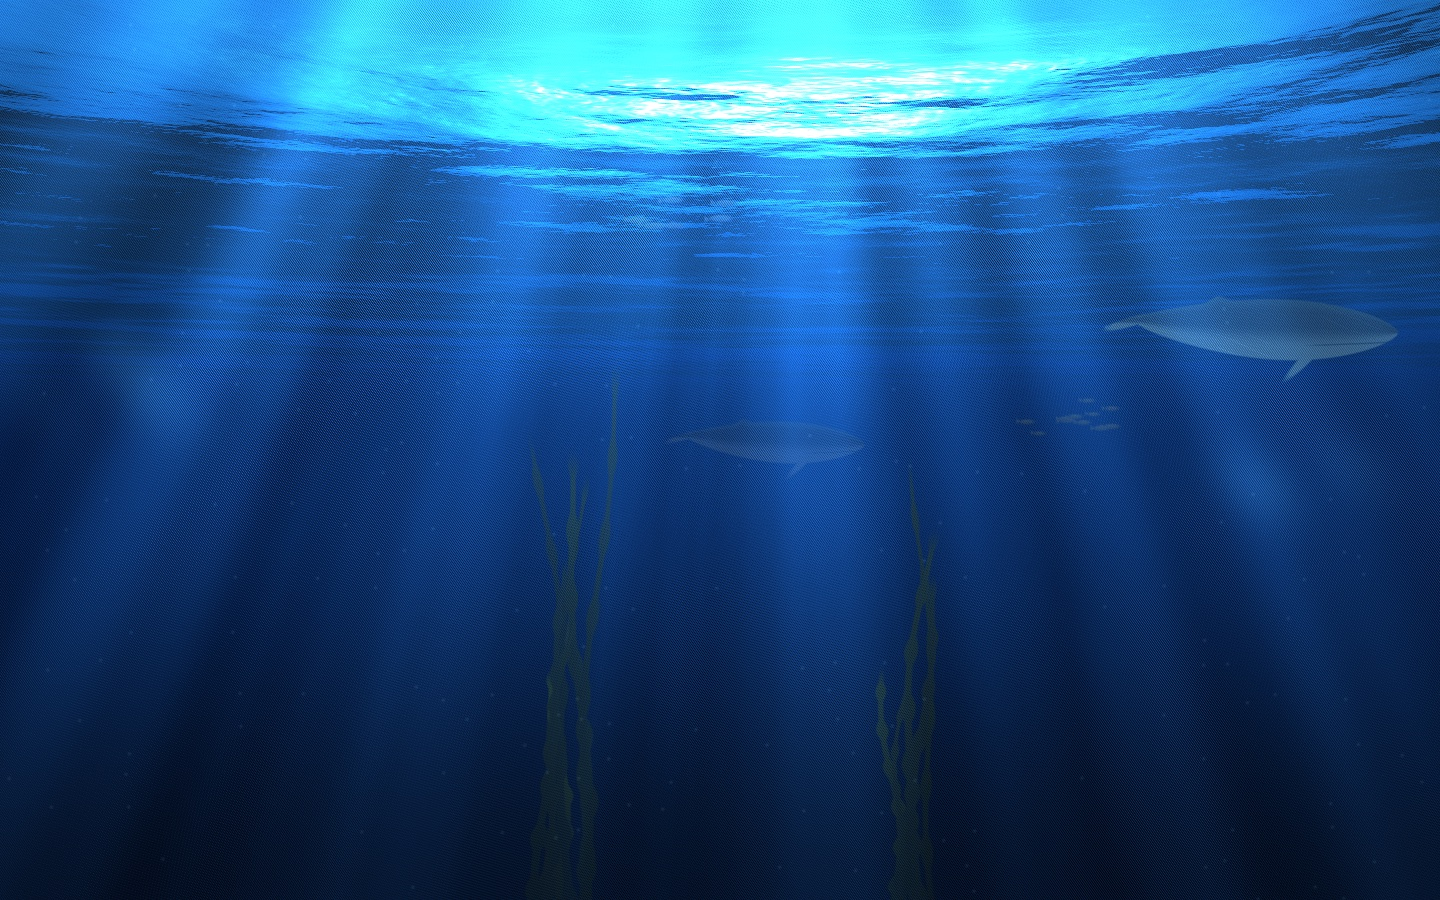
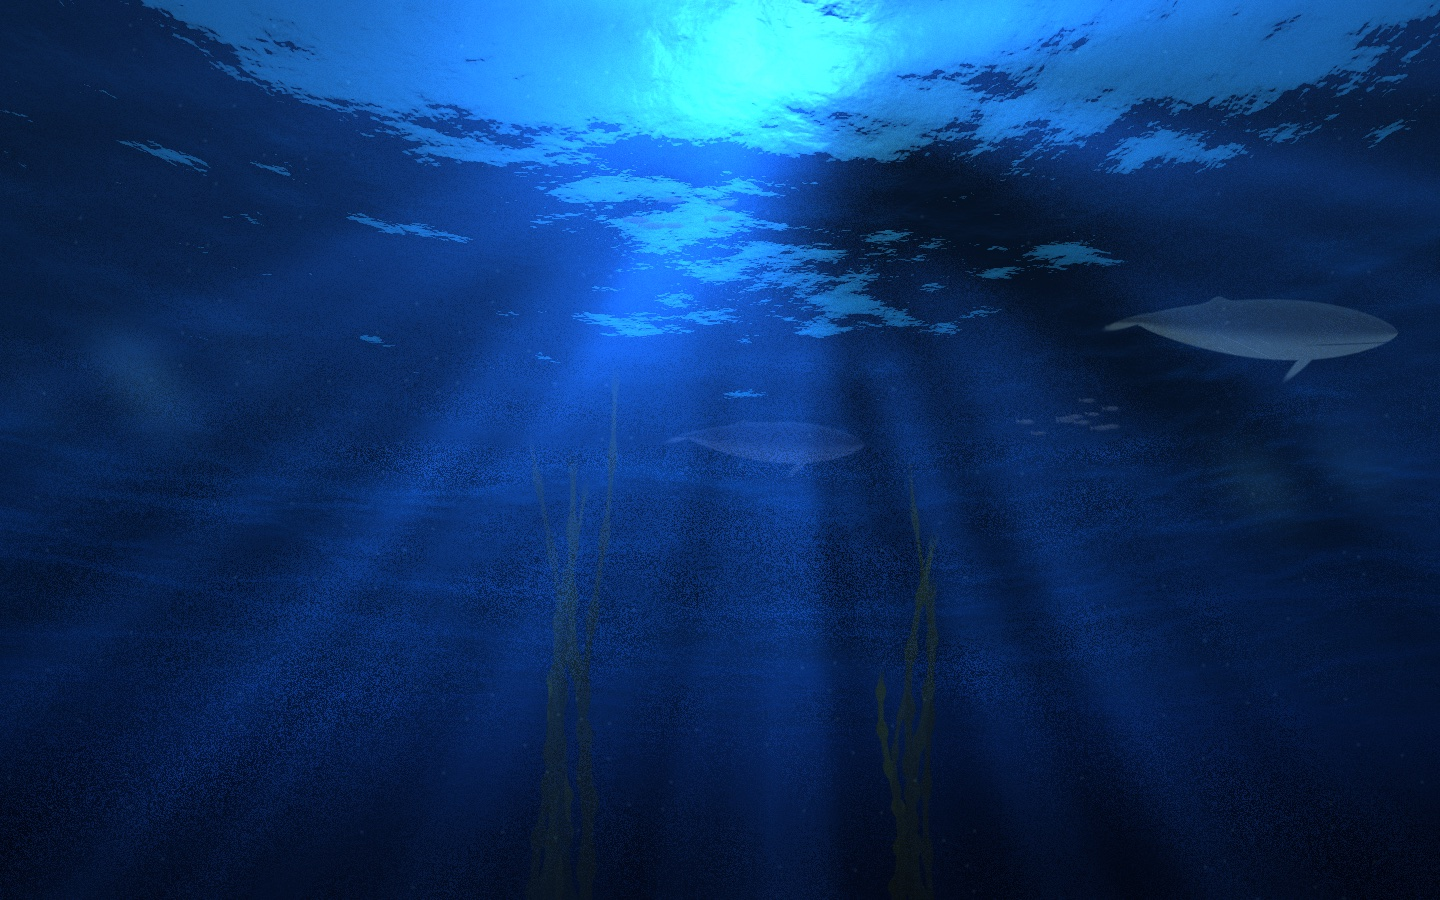
feat(scene): the real wave shape through a real camera, seen from below
- The line of sight is intersected with the displaced FFT surface, so the
  waves have shape and parallax instead of being a pattern on a flat sheet
- A real perspective camera on the seabed, tilted 25 degrees up; no more
  stretched viewing angle or exaggerated slopes
- Physical shading: sky and sun through Snell's window, total internal
  reflection outside it, absorption with distance, tone mapping
- ScenePreview --view above shows the same sea from above, to compare the
  waves with footage of a real sea
- Light shafts turned down so the surface stays readable

Part of #7

diff --git a/macos/EchomereScene/Sources/CoveSceneRenderer/SceneShaders.swift b/macos/EchomereScene/Sources/CoveSceneRenderer/SceneShaders.swift
@@ -53,24 +53,20 @@ enum SceneShaders {
 
     // MARK: Camera and sea
 
-    // The camera stands on the seabed, about 12 m down, and looks slightly up, like a webcam on the ground:
-    // the underside of the surface fills the picture above the horizon at 55 % of the screen height.
+    // The camera stands on the seabed, about 12 m down, and is tilted 25 degrees up, like a webcam on the
+    // ground. It is a real perspective camera (60 degree vertical field of view): the horizon lies near the
+    // bottom edge, and Snell's window, where the sky shows through, fills the top of the picture.
     constant float CAMERA_DEPTH = 12.0;
-    constant float FOCAL = 1.0;
-    constant float PITCH = -0.0500;            // -atan(0.05): puts the horizon at 55 % of the height
-    constant float HORIZON = 0.55;
+    constant float FOCAL = 0.866;
+    constant float PITCH = 0.436;
+    constant float HORIZON = 0.096;            // 0.5 - FOCAL * tan(PITCH)
     // Sea.cascadeSizes: long swell, wind sea, ripples.
     constant float CASCADE_SIZES[3] = { 211.3, 39.7, 7.43 };
     constant float WATER_IOR = 1.333;
-    // Seen this flat, every ray would be totally reflected. The surface is drawn as if the camera looked
-    // up more steeply, so the sunlit Snell's window shows at the top of the picture.
-    constant float ELEVATION_STRETCH = 3.0;
-    // Snell's window magnifies the waves seen from below; the slopes are gently exaggerated for the shading
-    // of the surface only (not for the light focusing).
-    constant float SLOPE_GAIN = 1.4;
+    constant float MAX_WAVE = 3.0;             // no wave rises or dips further than this, in metres
 
-    // The sun stands about 38 degrees high, ahead of the camera, so its light comes through the top of the picture.
-    constant float3 SUN_IN_AIR = float3(0.05, 0.61, 0.79);
+    // The sun stands 35 degrees high, ahead of the camera.
+    constant float3 SUN_IN_AIR = float3(0.10, 0.574, 0.813);
 
     struct SeaTextures {
         texture2d_array<float> displacement;   // per cascade: (Dx, height, Dz, dDx/dz)
@@ -87,6 +83,14 @@ enum SceneShaders {
         return normalize(float3(u, v * cp + FOCAL * sp, FOCAL * cp - v * sp));
     }
 
+    // The same sea seen from 4 m above, looking towards the sun: for checking the waves.
+    float3 viewRayAbove(float2 uv, float aspect) {
+        float u = (uv.x - 0.5) * aspect;
+        float v = uv.y - 0.5;
+        float cp = cos(-0.14), sp = sin(-0.14);
+        return normalize(float3(u, v * cp + FOCAL * sp, FOCAL * cp - v * sp));
+    }
+
     // Direction towards the sun under water (the sunlight bends towards the vertical as it enters).
     float3 sunInWater() {
         float3 down = refract(-normalize(SUN_IN_AIR), float3(0, 1, 0), 1.0 / WATER_IOR);
@@ -97,9 +101,9 @@ enum SceneShaders {
     float3 water(float y) {
         float3 deep = float3(0.002, 0.015, 0.055);
         float3 middle = float3(0.010, 0.075, 0.210);
-        float3 high = float3(0.080, 0.330, 0.640);
-        float3 c = mix(deep, middle, smoothstep(0.0, HORIZON - 0.05, y));
-        return mix(c, high, smoothstep(HORIZON - 0.05, 1.0, y));
+        float3 high = float3(0.030, 0.170, 0.400);
+        float3 c = mix(deep, middle, smoothstep(0.0, 0.30, y));
+        return mix(c, high, smoothstep(0.30, 1.0, y));
     }
 
     // How strongly the waves focus sunlight at `depth` metres below surface point `q`: the inverse of how
@@ -144,42 +148,109 @@ enum SceneShaders {
         return focusAt(sea, q, depth, broad);
     }
 
-    // The underside of the surface. Inside Snell's window the sky and the sun shine through the waves;
-    // outside it the surface is a mirror for the deep water below. Every wave changes where that boundary
-    // falls, so light patches form, travel and break up with the waves.
-    float3 surfaceUnderside(SeaTextures sea, float3 ray, float y) {
-        float3 deep = water(y);
-        if (ray.y <= 0.0) return deep;
-        float2 across = normalize(ray.xz);
-        float elevation = min(asin(ray.y) * ELEVATION_STRETCH, 1.45);
-        float3 incoming = float3(across.x * cos(elevation), sin(elevation), across.y * cos(elevation));
-        float distance = CAMERA_DEPTH / sin(elevation);
-        float2 q = incoming.xz * distance;
-        float2 slope = slopeAt(sea, q, distance) * SLOPE_GAIN;
-        float3 normal = normalize(float3(-slope.x, 1.0, -slope.y));
+    // Height of the long waves at the point x (metres). The choppy crests are waves pushed sideways, so the
+    // sideways push is undone first to find which part of the wave lies above x.
+    float heightAt(SeaTextures sea, float2 x) {
+        float4 d = sea.displacement.sample(seaSampler, x / CASCADE_SIZES[0], 0, level(0.0));
+        return sea.displacement.sample(seaSampler, (x - d.xz) / CASCADE_SIZES[0], 0, level(0.0)).y;
+    }
 
-        // Outside Snell's window the surface mirrors the water below: facets tilted to see the lighter water
-        // just under the surface look brighter than facets that see the dark depth.
-        float3 mirrored = reflect(incoming, -normal);
-        float3 reflected = mix(float3(0.006, 0.045, 0.130), float3(0.040, 0.190, 0.380),
-                               pow(1.0 - saturate(-mirrored.y * 1.6), 2.0));
-        float3 through = refract(incoming, -normal, WATER_IOR);
+    // Where a line of sight meets the waves: the distance along the ray, or a negative value if it never
+    // does. Works from below and from above. The ray is walked through the layer the waves occupy until it
+    // crosses the surface, then the crossing is refined.
+    float surfaceHit(SeaTextures sea, float3 origin, float3 ray) {
+        if (abs(ray.y) < 1e-4) return -1.0;
+        float side = sign(ray.y);
+        float start = max((-MAX_WAVE * side - origin.y) / ray.y, 0.0);
+        float end = min((MAX_WAVE * side - origin.y) / ray.y, 600.0);
+        if (end <= start) return -1.0;
+        const int STEPS = 10;
+        float dt = (end - start) / float(STEPS);
+        float before = start;
+        float gapBefore = side * (origin.y + start * ray.y - heightAt(sea, origin.xz + ray.xz * start));
+        for (int i = 1; i <= STEPS; i++) {
+            float t = start + dt * float(i);
+            float gap = side * (origin.y + t * ray.y - heightAt(sea, origin.xz + ray.xz * t));
+            if (gap > 0.0) {
+                for (int k = 0; k < 2; k++) {               // refine between the last two steps
+                    float middle = before + (t - before) * (-gapBefore / (gap - gapBefore));
+                    float gapMiddle = side * (origin.y + middle * ray.y
+                                              - heightAt(sea, origin.xz + ray.xz * middle));
+                    if (gapMiddle > 0.0) { t = middle; gap = gapMiddle; }
+                    else { before = middle; gapBefore = gapMiddle; }
+                }
+                return before + (t - before) * (-gapBefore / (gap - gapBefore));
+            }
+            before = t;
+            gapBefore = gap;
+        }
+        return end;
+    }
+
+    // The upward normal of the surface above the point x, from all three wave scales.
+    float3 normalAt(SeaTextures sea, float2 x, float distance) {
+        float2 push = sea.displacement.sample(seaSampler, x / CASCADE_SIZES[0], 0, level(0.0)).xz
+                    + sea.displacement.sample(seaSampler, x / CASCADE_SIZES[1], 1, level(0.0)).xz;
+        float2 slope = slopeAt(sea, x - push, distance);
+        return normalize(float3(-slope.x, 1.0, -slope.y));
+    }
+
+    // The sky and the sun, as seen in direction `direction` above the water.
+    float3 sky(float3 direction) {
+        float sunAngle = saturate(dot(direction, normalize(SUN_IN_AIR)));
+        float3 c = mix(float3(0.55, 0.72, 0.95), float3(0.18, 0.38, 0.80), saturate(direction.y));
+        c += float3(1.0, 0.95, 0.85) * (pow(sunAngle, 3000.0) * 60.0 + pow(sunAngle, 200.0) * 3.0
+                                        + pow(sunAngle, 12.0) * 0.5);
+        return c;
+    }
+
+    float3 toneMap(float3 c) { return 1.0 - exp(-c * 0.8); }
+
+    // The underside of the surface, drawn where the line of sight really meets the waves. Inside Snell's
+    // window the sky and the sun shine through; outside it the surface is a mirror for the water below. Every
+    // wave tilts the surface, so the edge of the window, the sun's glitter and the mirrored water all move with
+    // the waves.
+    float3 surfaceUnderside(SeaTextures sea, float3 ray, float y) {
+        float3 body = water(y);
+        if (ray.y <= 0.0) return body;
+        float3 origin = float3(0.0, -CAMERA_DEPTH, 0.0);
+        float t = surfaceHit(sea, origin, ray);
+        if (t < 0.0) return body;
+        float3 hit = origin + ray * t;
+        float3 normal = normalAt(sea, hit.xz, t);
+
+        // The mirror shows the water below: lighter near the surface, dark blue straight down.
+        float3 mirrored = reflect(ray, -normal);
+        float3 reflected = mix(float3(0.004, 0.035, 0.110), float3(0.030, 0.160, 0.340),
+                               pow(1.0 - saturate(-mirrored.y), 3.0));
+        float3 through = refract(ray, -normal, WATER_IOR);
         float3 c;
         if (dot(through, through) < 1e-5) {
             c = reflected;                                  // total internal reflection
         } else {
-            float cosine = saturate(dot(incoming, normal));
             float fresnel = 0.02 + 0.98 * pow(1.0 - saturate(dot(through, normal)), 5.0);
-            float sunAngle = saturate(dot(through, normalize(SUN_IN_AIR)));
-            float3 sky = mix(float3(0.10, 0.30, 0.58), float3(0.30, 0.55, 0.85), saturate(through.y));
-            float3 sun = float3(1.0, 0.97, 0.90) * (pow(sunAngle, 250.0) * 6.0 + pow(sunAngle, 25.0) * 0.8);
-            c = mix(sky + sun, reflected, saturate(fresnel + (1.0 - cosine) * 0.15));
+            c = mix(sky(through), reflected, fresnel);
         }
+        c = toneMap(c);
         // Light reaching the camera through the water turns blue and fades with distance.
-        float3 absorption = exp(-distance * float3(0.11, 0.028, 0.015));
-        c = c * absorption + deep * (1.0 - absorption);
-        float haze = smoothstep(0.0, 0.025, ray.y);
-        return mix(deep, c, haze);
+        float3 clear = exp(-t * float3(0.090, 0.022, 0.012));
+        return c * clear + body * (1.0 - clear);
+    }
+
+    // The sea from above, for checking the waves against footage of a real sea.
+    float3 seaFromAbove(SeaTextures sea, float3 ray) {
+        float3 origin = float3(0.0, 4.0, 0.0);
+        float3 horizon = toneMap(sky(normalize(float3(ray.x, max(ray.y, 0.0) + 0.02, ray.z))));
+        if (ray.y >= 0.0) return horizon;
+        float t = surfaceHit(sea, origin, ray);
+        if (t < 0.0) return horizon;
+        float3 hit = origin + ray * t;
+        float3 normal = normalAt(sea, hit.xz, t);
+        float3 mirrored = reflect(ray, normal);
+        mirrored.y = abs(mirrored.y);
+        float fresnel = 0.02 + 0.98 * pow(1.0 - saturate(dot(-ray, normal)), 5.0);
+        float3 c = toneMap(mix(float3(0.010, 0.060, 0.090), sky(mirrored), fresnel));
+        return mix(horizon, c, exp(-t / 900.0));
     }
 
     // Light shafts: sunlight scattered towards the camera along its line of sight. At every step the light is
@@ -195,8 +266,7 @@ enum SceneShaders {
         float range = ray.y > 0.0 ? min(32.0, (CAMERA_DEPTH - 0.3) / ray.y) : 32.0;
         float dt = range / float(STEPS);
         // A fixed per-pixel offset hides the steps without flickering from frame to frame.
-        float2 cell = floor(pixel);
-        float offset = fract(52.9829189 * fract(0.06711056 * cell.x + 0.00583715 * cell.y));
+        float offset = hash21(floor(pixel));
         float light = 0.0;
         for (int i = 0; i < STEPS; i++) {
             float t = (float(i) + offset) * dt;
@@ -206,7 +276,7 @@ enum SceneShaders {
             float focus = causticAt(sea, point.xz, depth, true);
             light += ((focus - 1.0) * 2.4 + 0.10) * exp(-depth * 0.07) * exp(-t * 0.05) * dt;
         }
-        return float3(0.035, 0.120, 0.220) * 0.45 * max(light, 0.0) * phase;
+        return float3(0.020, 0.085, 0.200) * 0.20 * max(light, 0.0) * min(phase, 6.0);
     }
 
     float3 fogged(float3 c, float depth, float y) {
@@ -330,6 +400,9 @@ enum SceneShaders {
         float2 p = float2(0.8 + (in.uv.x - 0.5) * aspect, in.uv.y);
 
         float3 ray = viewRay(in.uv, aspect);
+        if (d[1].z > 0.5) {
+            return float4(seaFromAbove(sea, viewRayAbove(in.uv, aspect)), 1.0);
+        }
         float3 col = surfaceUnderside(sea, ray, p.y);
 
 

diff --git a/macos/EchomereScene/Sources/CoveSceneRenderer/SceneBuffer.swift b/macos/EchomereScene/Sources/CoveSceneRenderer/SceneBuffer.swift
@@ -17,7 +17,8 @@ public enum SceneBuffer {
     /// - Parameters:
     ///   - aspect: width / height of the target.
     ///   - pixelsHigh: height of the target in pixels, for anti-aliasing.
-    public static func pack(_ frame: SceneFrame, aspect: Double, pixelsHigh: Double) -> [SIMD4<Float>] {
+    public static func pack(_ frame: SceneFrame, aspect: Double, pixelsHigh: Double,
+                            seaFromAbove: Bool = false) -> [SIMD4<Float>] {
         var data = [SIMD4<Float>](repeating: .zero, count: count)
         let creatures = Array(frame.creatures.prefix(maxCreatures))
         let kelp = Array(frame.kelp.prefix(maxKelp))
@@ -26,7 +27,7 @@ public enum SceneBuffer {
         // Shader time runs over one day; Float keeps enough precision for slow motion at that range.
         let shaderTime = frame.time.timeIntervalSince1970.truncatingRemainder(dividingBy: 86_400)
         data[0] = SIMD4(Float(aspect), Float(shaderTime), Float(creatures.count), Float(kelp.count))
-        data[1] = SIMD4(Float(echoes.count), Float(1 / pixelsHigh), 0, 0)
+        data[1] = SIMD4(Float(echoes.count), Float(1 / pixelsHigh), seaFromAbove ? 1 : 0, 0)
 
         for (i, layer) in frame.terrain.prefix(3).enumerated() {
             let b = terrainStart + i * 4

diff --git a/macos/EchomereScene/Sources/CoveSceneRenderer/CoveSceneRenderer.swift b/macos/EchomereScene/Sources/CoveSceneRenderer/CoveSceneRenderer.swift
@@ -22,6 +22,8 @@ public final class CoveSceneRenderer {
     let queue: MTLCommandQueue
     private let pipeline: MTLRenderPipelineState
     let ocean: Ocean
+    /// Draws the sea from above instead of the scene, for checking the waves against footage of a real sea.
+    public var showsSeaFromAbove = false
 
     public init(device: MTLDevice, pixelFormat: MTLPixelFormat = .bgra8Unorm) throws {
         self.device = device
@@ -88,7 +90,8 @@ public final class CoveSceneRenderer {
         ocean.simulate(seaTime: frame.seaTime, commandBuffer: commandBuffer)
 
         let data = SceneBuffer.pack(
-            frame, aspect: Double(texture.width) / Double(texture.height), pixelsHigh: Double(texture.height))
+            frame, aspect: Double(texture.width) / Double(texture.height), pixelsHigh: Double(texture.height),
+            seaFromAbove: showsSeaFromAbove)
         guard let buffer = data.withUnsafeBytes({ bytes in
             device.makeBuffer(bytes: bytes.baseAddress!, length: bytes.count, options: .storageModeShared)
         }) else { return }

diff --git a/macos/EchomereScene/Sources/ScenePreview/main.swift b/macos/EchomereScene/Sources/ScenePreview/main.swift
@@ -22,6 +22,8 @@ struct Options {
     var fps = 15
     var renderScale = 0.5
     var snapshot: String?
+    /// `--view above` shows the sea from above, for checking the waves.
+    var seaFromAbove = false
     var framesDirectory: String?
     var seconds = 10.0
     var at: Date?
@@ -39,6 +41,7 @@ struct Options {
             case "--speed": speed = Double(value) ?? speed
             case "--fps": fps = min(max(Int(value) ?? fps, 1), 60)
             case "--scale": renderScale = min(max(Double(value) ?? renderScale, 0.1), 1)
+            case "--view": seaFromAbove = value == "above"
             case "--snapshot": snapshot = value
             case "--frames": framesDirectory = value
             case "--seconds": seconds = Double(value) ?? seconds
@@ -67,6 +70,8 @@ do {
     FileHandle.standardError.write(Data("Renderer failed: \(error)\n".utf8))
     exit(1)
 }
+
+renderer.showsSeaFromAbove = options.seaFromAbove
 
 if let directory = options.framesDirectory {
     let start = options.at ?? Date()

diff --git a/macos/EchomereScene/README.md b/macos/EchomereScene/README.md
@@ -25,6 +25,7 @@ swift run SceneChecks                        # behaviour checks; exits 1 on fail
 swift run ScenePreview                       # a window; space shows another cove, Esc quits
 swift run ScenePreview --speed 20            # time runs 20 times faster
 swift run ScenePreview --snapshot cove.png --seed 7 --at 1794000500 --size 1440x900
+swift run ScenePreview --view above          # the same sea from above, to check the waves
 ```
 
 Other options: `--seed N`, `--whales N` (up to 6), `--echoes N`, `--fps N` (default 15), `--scale X`
